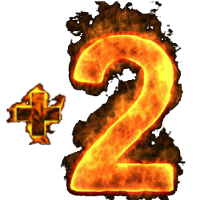
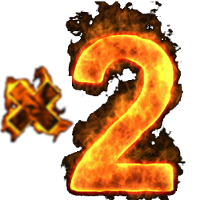
new skill x2 party 1

Changed region(s): [[0.0, 0.33, 0.39, 0.75], [0.33, 0.36, 0.36, 0.42]]

diff --git a/static/game.js b/static/game.js
@@ -64,36 +64,32 @@ var actions = {
   },
   capability: {
     fire: false,
-    shield: false
+    shield: false,
+    multiplyFire: false,
   },
   setNewNameForDragon: '',
 };
 
 
-// Инициализация картинку дракона.
-var oDragonImage = new Image();
-oDragonImage.src = '/static/images/dragon.gif';
-oDragonImage.onload = function() {};
+// Инициализация картинки дракона.
+var dragonImage = new Image();
+dragonImage.src = '/static/images/dragon.gif';
 
-// Инициализация картинку огня.
-var oBallImage = new Image();
-oBallImage.src = '/static/images/fireball.png';
-oBallImage.onload = function() {};
+// Инициализация картинки огня.
+var ballImage = new Image();
+ballImage.src = '/static/images/fireball.png';
 
-// Инициализвция картинку заднего фона.
+// Инициализвция картинки заднего фона.
 var backgroundImage = new Image();
 backgroundImage.src = '/static/images/background.jpg';
-backgroundImage.onload = function() {};
 
-// Инициализвция картинку щита.
+// Инициализвция картинки щита.
 var shieldImage = new Image();
 shieldImage.src = '/static/images/shield.png';
-shieldImage.onload = function() {};
 
-// Инициализвция картинку +2.
-var twoFireImage = new Image();
-twoFireImage.src = '/static/images/2fire.png';
-twoFireImage.onload = function() {};
+// Инициализвция картинки x2.
+var multiplyFireImage = new Image();
+multiplyFireImage.src = '/static/images/2fire.png';
 
 
 // Функция определяет вертикальную позицию для спрайта дракона.
@@ -156,8 +152,10 @@ function hendlerEvents() {
       actions.spritePositions.vertical = getSpriteVerticalPosition();
     } else if (code === 74) {                // 74 = J
       actions.capability.fire = true;
-    } else if (code === 75) {                // 75=K, 76=L
+    } else if (code === 75) {                // 75=K
       actions.capability.shield = true;
+    } else if (code === 76) {                // 76=L
+      actions.capability.multiplyFire = true;
     } else if (code === 80) {                // 80=P
       actions.setNewNameForDragon = prompt(STRINGS["promptChangeDragonName"]) || "Undefined Dragon";
       if(actions.setNewNameForDragon.length > 16) {
@@ -193,6 +191,7 @@ function handlerOfPlayerActions() {
 
     actions.capability.fire = false;
     actions.capability.shield = false;
+    actions.capability.multiplyFire = false;
 
   }, 1000 / 60);
 }
@@ -237,7 +236,7 @@ function drawGame() {
 
       // Отрисовка дракона.
       ctx.drawImage(
-        oDragonImage,
+        dragonImage,
         player.dragonSpritePos.horizontal*SIZES.dragon.w,
         player.dragonSpritePos.vertical*SIZES.dragon.h,
         SIZES.dragon.w,
@@ -249,7 +248,7 @@ function drawGame() {
       );
 
       if(player.shield) {
-        player.dragonName = player.shieldCountDown + " " + player.dragonName;
+        player.dragonName = "щит: " + player.shieldCountDown + " / " + player.dragonName;
 
         ctx.drawImage(
           shieldImage,
@@ -262,6 +261,22 @@ function drawGame() {
           75,
           70
         );
+      }
+
+      if(player.multiplyFire) {
+        player.dragonName = "x2: " + player.multiplyFireCountDown + " / " + player.dragonName;
+
+        // ctx.drawImage(
+        //   shieldImage,
+        //   Math.floor(player.shieldSprite.horizontal/2)*75,
+        //   0,
+        //   75,
+        //   75,
+        //   player.x-5,
+        //   player.y-5,
+        //   75,
+        //   70
+        // );
       }
 
 
@@ -285,7 +300,7 @@ function drawGame() {
       // Отрисовка шаров.
       for (var key = 0; key < player.balls.length; key++) {
         ctx.drawImage(
-          oBallImage,
+          ballImage,
           player.balls[key].sprPos*SIZES.ball.w,
           0,
           SIZES.ball.w,
@@ -381,10 +396,9 @@ function drawGame() {
     ctx.fill();
     ctx.lineWidth = 2;
     ctx.stroke();
-
-    // Отрисовка +2 в правом меню.
+    // Отрисовка x2 в правом меню.
     ctx.drawImage(
-      twoFireImage,
+      multiplyFireImage,
       SIZES.field.w + 100,
       34,
       35,
@@ -397,17 +411,18 @@ function drawGame() {
       ctx.font = '16px Verdana';
       ctx.fillStyle = '#191970';
       ctx.fillText("- " + currentPlayer.capability.shieldsCount, SIZES.field.w + 60, 55);
-      // Колличество +2
-      ctx.fillText("- 0"/* + currentPlayer.capability.shieldsCount*/, SIZES.field.w + 150, 55);
+      // Колличество x2
+      ctx.fillText("- " + currentPlayer.capability.multiplyFiresCount, SIZES.field.w + 150, 55);
 
     }
     // Управление
     ctx.font = '12px Verdana';
     ctx.fillText("Передвижеие: A, S, D, W", SIZES.canvas.w-SIZES.menu.w/2, 130);
     ctx.fillText("Изменить название дракона: P", SIZES.canvas.w-SIZES.menu.w/2, 166);
+    ctx.fillText("Увеличить колличество шаров x2: L", SIZES.canvas.w-SIZES.menu.w/2, 184);
     ctx.font = '15px Verdana';
     ctx.fillText("Атака: J . Щит: K", SIZES.canvas.w-SIZES.menu.w/2, 148);
-    ctx.fillText("Перерождение: R", SIZES.canvas.w-SIZES.menu.w/2, 184);
+    ctx.fillText("Перерождение: R", SIZES.canvas.w-SIZES.menu.w/2, 200);
 
     //
     ctx.font = '25px Verdana';

diff --git a/server.js b/server.js
@@ -63,6 +63,7 @@ io.on('connection', function(socket) {
       capability: { // меняющиеся навыки / колличество
         maxBalls: 1,
         shieldsCount: 0,
+        multiplyFiresCount: 1,
       },
       balls: [], // шары
       x: generateRandomNumber(userData.x-SIZES.dragonCanvas.w), //координата x дракона в поле
@@ -72,8 +73,11 @@ io.on('connection', function(socket) {
       fireSpeed: 8, // начальная скорость шара
       ownSpeed: 5, // скорость передвижения дракона
       enemiesKilled: 0, // колличество убитых врагов
+
       shield: false, // щит
       shieldCountDown: 0, // время до исчезновения щита
+      multiplyFire: false, // умножает колличество запускаемых шаров на 2
+      multiplyFireCountDown: 0, // время до исчерпания баффа multiplyFire
     };
   });
 
@@ -110,7 +114,13 @@ io.on('connection', function(socket) {
     // Если есть в складе запасной щит и щит не включен, активизируем щит.
     // TODO: проблема с проверкой, надо проверить capability && 
     if(capability && capability.shield && !player.shield && player.capability.shieldsCount > 0) {
-      activateShield(player);
+      activateCapability(player, "shield");
+    }
+
+    // Если есть в складе запасной щит и щит не включен, активизируем щит.
+    // TODO: проблема с проверкой, надо проверить capability && 
+    if(capability && capability.multiplyFire && player.capability.multiplyFiresCount > 0) {
+      activateCapability(player, "multiplyFire", multiplyFireUp, multiplyFireDown);
     }
 
     // изменить спрайт позицию активированного щита.
@@ -244,26 +254,40 @@ function movementBalls(player, userId) {
   player.balls = newBalls;
 }
 
-// активация щита
-function activateShield(player) {
-  player.capability.shieldsCount--;
-  player.shieldCountDown = 6;
-  player.shield = true;
-  countDown(player, {capability: "shield", countDown: "shieldCountDown"});
+// активация навыка
+function activateCapability(player, capability, effectUp, effectDown) {
+  player.capability[capability + "sCount"]--;
+  player[capability + "CountDown"] += 6;
+  if(effectUp) effectUp(player);
+
+  if(!player[capability]) {
+    player[capability] = true;
+    countDown(player, capability, effectDown);
+  }
 }
 
 
-// кулдаун скилов
-function countDown(player, options) {
+// кулдаун навыка
+function countDown(player, capability, effectDown) {
   setTimeout(function () {
-    if(player[options.countDown] !== 1) {
-      player[options.countDown]--;
-      countDown(player, options);
+    if(player[capability + "CountDown"] !== 1) {
+      player[capability + "CountDown"]--;
+      countDown(player, capability, effectDown);
     } else {
-      player[options.capability] = false;
+      player[capability] = false;
+      if(effectDown) effectDown(player);
     }
   }, 1000);
 }
+
+
+function multiplyFireUp(player) {
+  player.capability.maxBalls *= 2;
+}
+function multiplyFireDown(player) {
+  player.capability.maxBalls = 1;
+}
+
 
 // вызывая для генерации бонуса Щита. Как аргумент получает число в промежутке от 15 до 20 и поле завершения снова вызывается.
 function generateBonusShield() {
